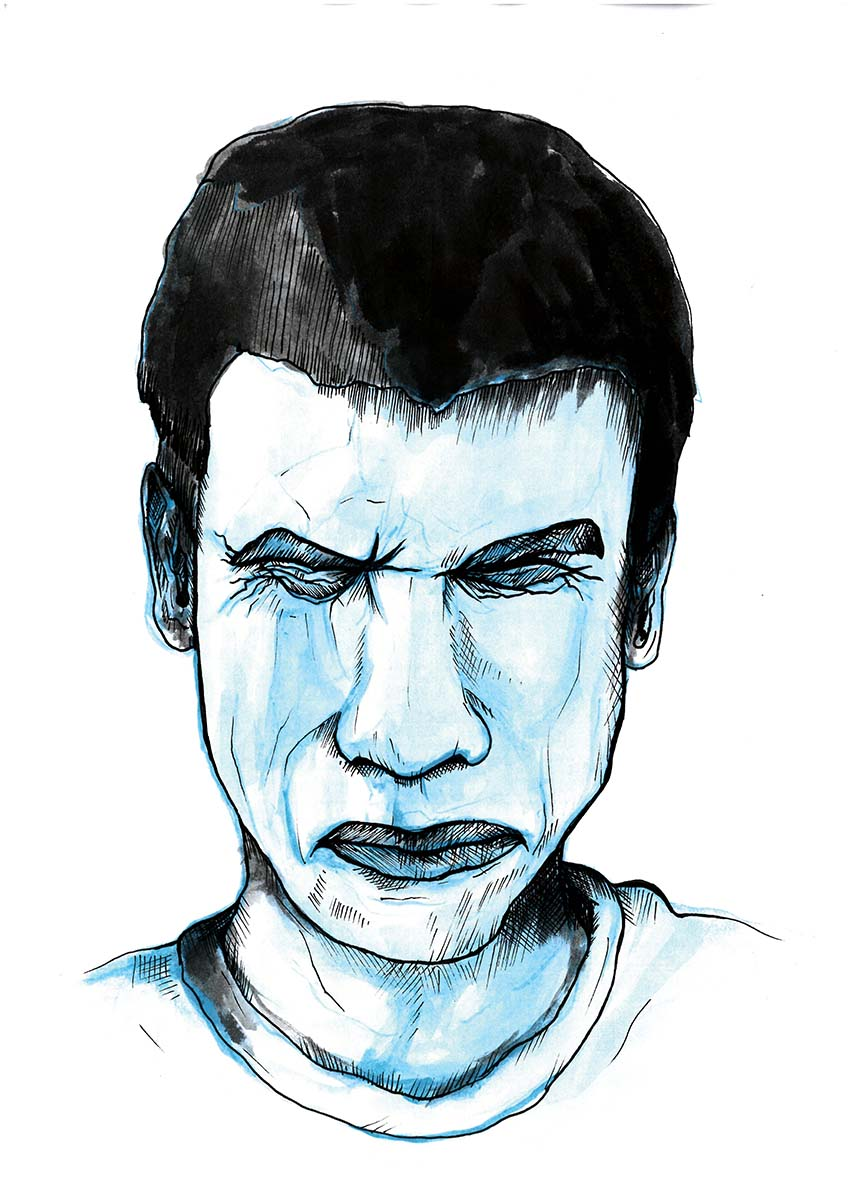
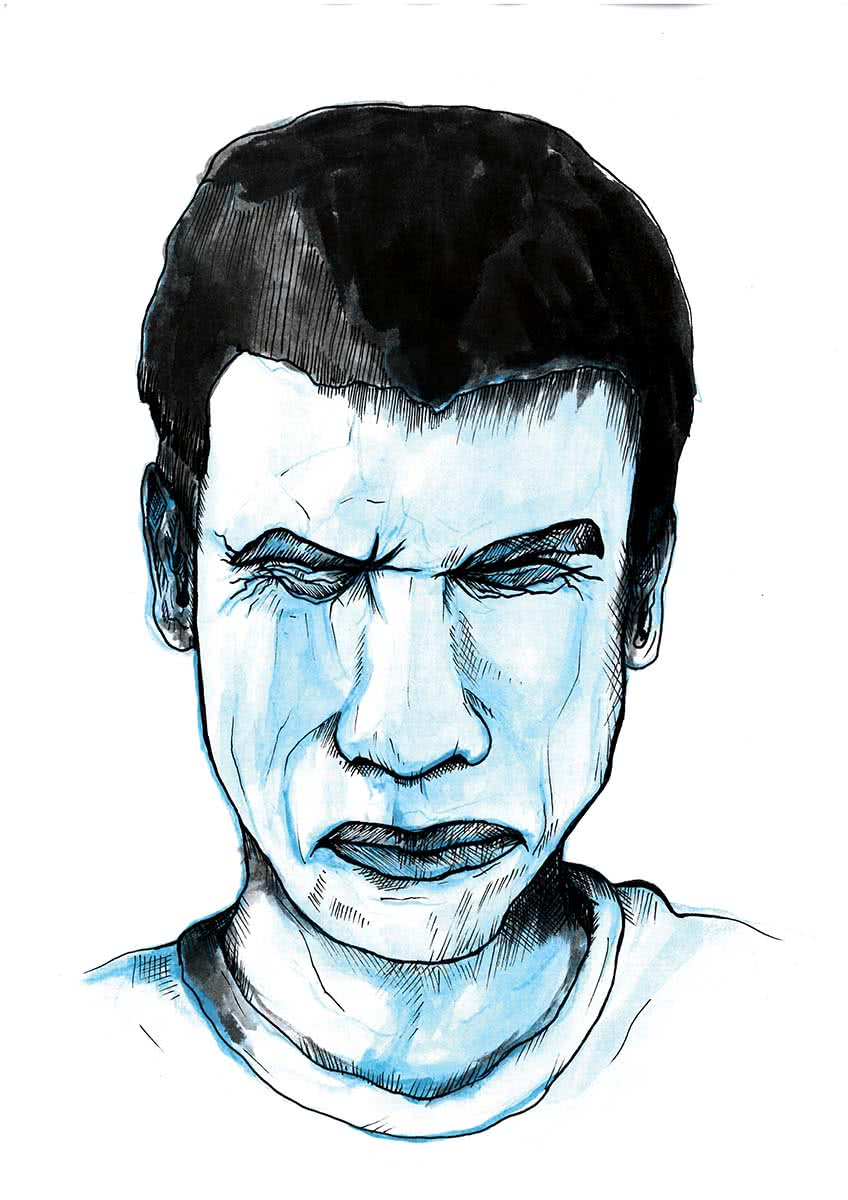
optimized images

diff --git a/anniversary.html b/anniversary.html
@@ -125,7 +125,7 @@ layout: base
         <article class="post-it post-it--padded post-it--orange">
             <cite>Mr. Triangle, Ms. Roro Dodecagon</cite>
             <blockquote>- Elle est plus dedans.<br>
-            - Ça change quoi si elle a plus de dents.</blockquote>
+            - Ça change quoi si elle a plus de dents?</blockquote>
         </article>
     </div>
 
@@ -202,7 +202,7 @@ layout: base
     <div class="grid__item lg-w-1/4 sm-w-1/2 xs-w-1/1">
         <article class="post-it post-it--padded post-it--yellow">
             <cite>Mr. Circle</cite>
-            <blockquote>Vous savez ce que c'est le plus grand problème de ma vie?</blockquote>
+            <blockquote>J'aurais pas du aller courir</blockquote>
         </article>
     </div>
 
